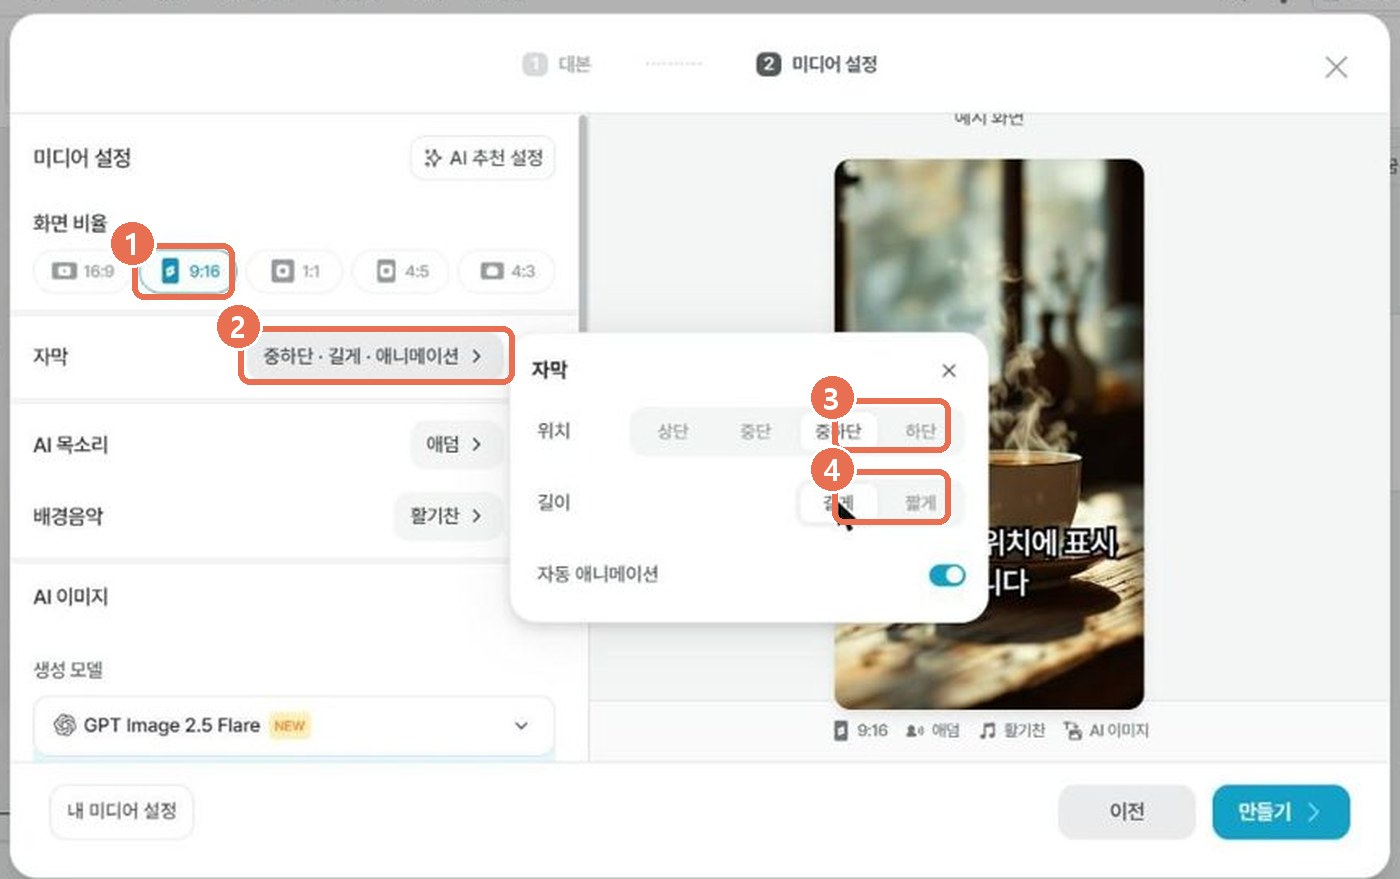
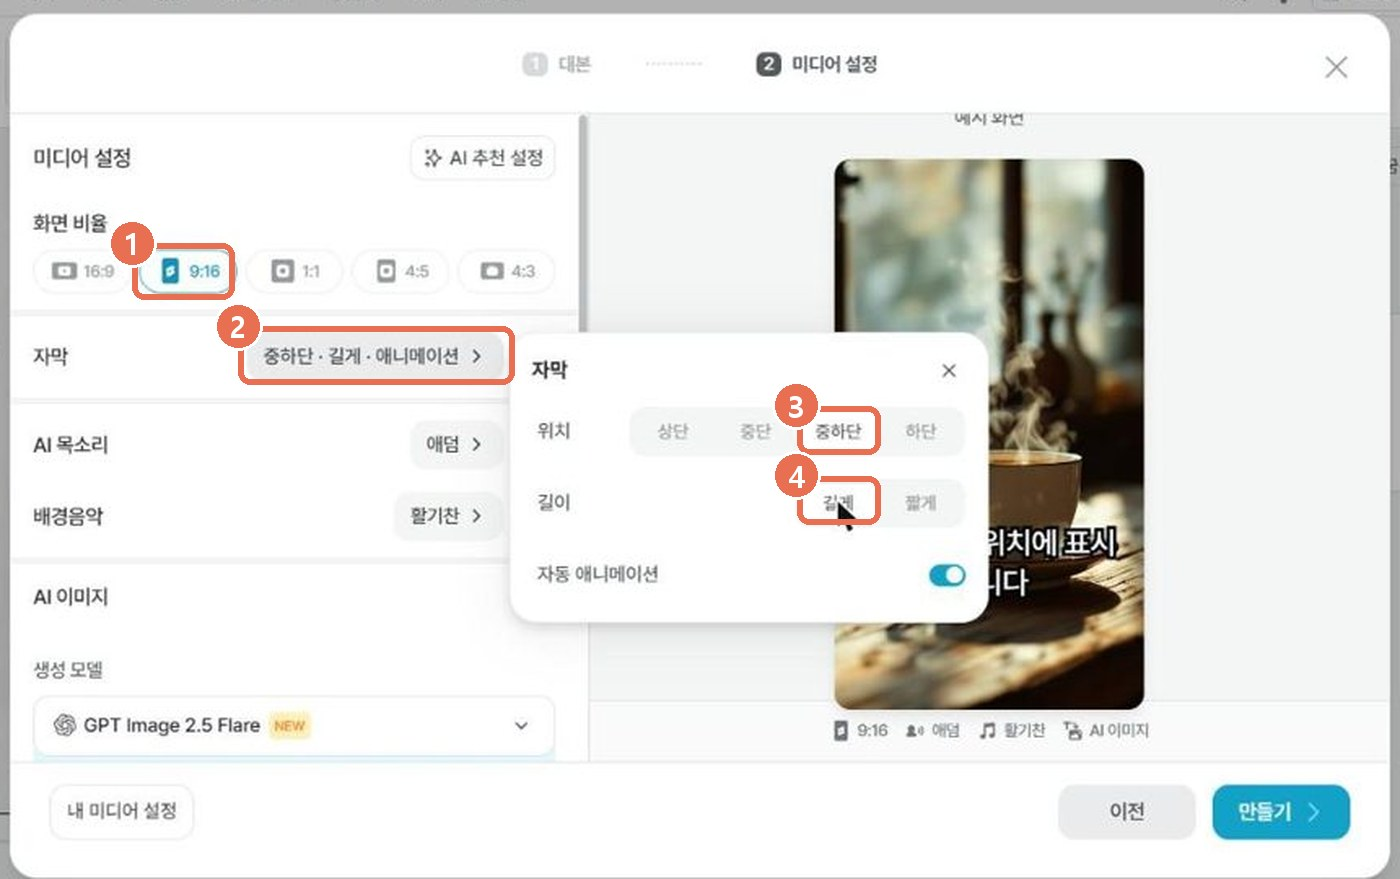
Fix subtitle guide boxes; no blue selection in zoom window

Changed region(s): [[0.5529, 0.43, 0.6757, 0.6143], [0.6757, 0.5529, 0.7064, 0.5836], [0.6757, 0.4608, 0.7064, 0.4915]]

diff --git a/index.html b/index.html
@@ -449,6 +449,11 @@ video:-webkit-full-screen{object-fit:contain!important;background:#000;border:0!
 .stychip{font:700 16px var(--sans);padding:7px 12px;border-radius:999px;border:2px solid var(--line);background:var(--cream);color:var(--ink);cursor:pointer}
 .stychip:hover{border-color:var(--coral)}
 .stychip.on{background:var(--coral);border-color:var(--coral);color:#fff}
+
+/* 확대 창 · 그림은 선택(파란 칠) 안 되게 */
+#lb,#lb *{-webkit-user-select:none;user-select:none}
+#lb ::selection,.frame img::selection,.frame::selection{background:transparent}
+.frame img{-webkit-user-select:none;user-select:none}
 </style>
 </head>
 <body>
@@ -2991,11 +2996,11 @@ window.__render=render;
   function showLB(){const m=L[li];lbv.pause();const v=m.tagName==='VIDEO';lbv.style.display=v?'block':'none';lbi.style.display=v?'none':'block';
     if(v){lbv.src=m.getAttribute('src');lbv.muted=false;lbv.currentTime=0;const p=lbv.play();if(p)p.catch(()=>{lbv.muted=true;lbv.play()})}else{lbv.removeAttribute('src');lbi.src=m.dataset.full||m.getAttribute('src')}
     lbc.textContent=capOf(m);{const pb=lb.querySelector('.lbp2'),ps=PM[m.getAttribute('src')];pb.style.display=ps?'':'none';pb.onclick=ps?(e=>{e.stopPropagation();openPV(ps)}):null;pb.textContent=v?'영상 프롬프트 보기':'이미지 프롬프트 보기'}lbn.textContent=L.length>1?(li+1)+' / '+L.length:'';lb.classList.toggle('multi',L.length>1)}
-  function openLB(m){L=media(m);li=Math.max(0,L.indexOf(m));lb.classList.add('on');showLB()}
+  function openLB(m){L=media(m);li=Math.max(0,L.indexOf(m));try{getSelection().removeAllRanges()}catch(e){}lb.classList.add('on');showLB()}
   function stepLB(d){if(L.length<2)return;li=(li+d+L.length)%L.length;showLB()}
 
   // 할로윈 수업 소개: 단계를 누르면 실제 할로윈 교안 페이지를 크게
-  window.__openSet=(arr)=>{if(!arr.length)return;L=arr;li=0;lb.classList.add('on');showLB()};
+  window.__openSet=(arr)=>{if(!arr.length)return;L=arr;li=0;try{getSelection().removeAllRanges()}catch(e){}lb.classList.add('on');showLB()};
   document.querySelectorAll('.hwgo').forEach(el=>{const pg=el.dataset.hw.split(',');const b=document.createElement('span');b.className='see';b.textContent=el.dataset.see||('교안 보기 ▸'+(pg.length>1?' '+pg.length+'장':''));(el.tagName==='TR'?el.lastElementChild:el).appendChild(b);
     el.addEventListener('click',e=>{e.stopPropagation();const box=el.closest('.slide').querySelector('.hwpg');window.__openSet(pg.map(n=>box.querySelector('img[data-hwp="'+n+'"]')).filter(Boolean))})});
   function closeLB(){lbv.pause();if(document.fullscreenElement===lb)document.exitFullscreen();lb.classList.remove('on')}
